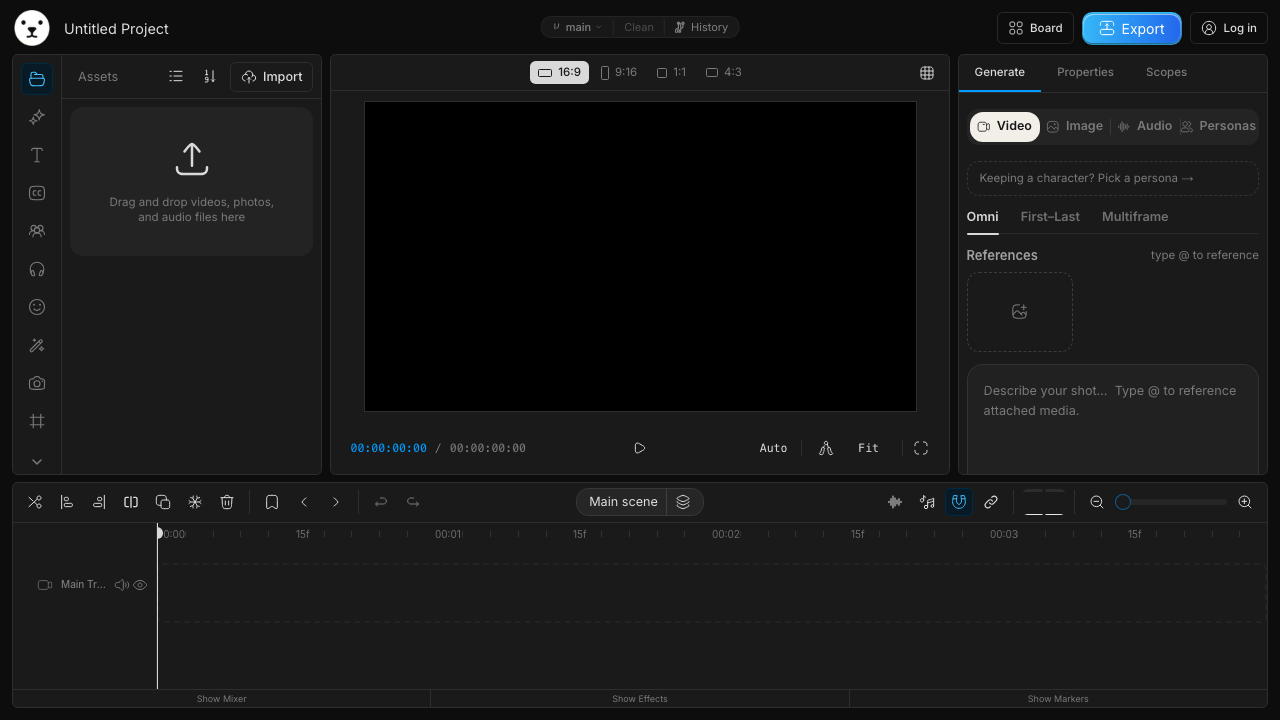
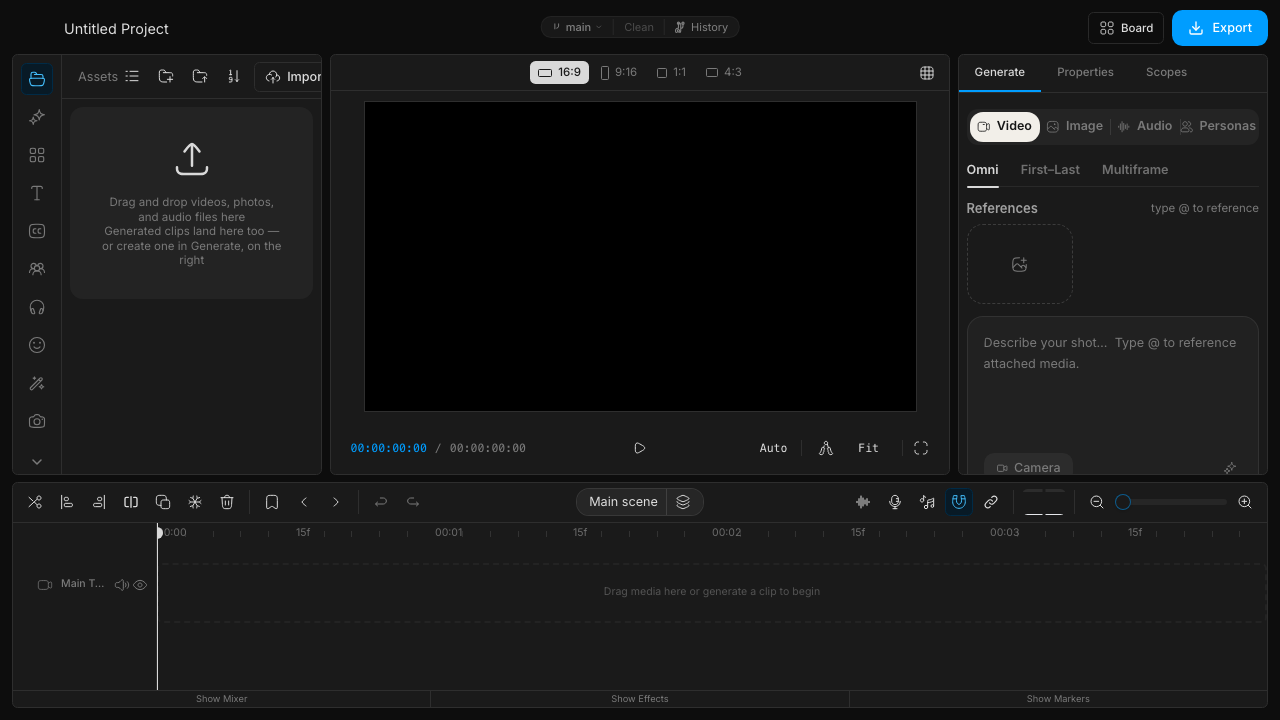
fix(generate): restore Personas tab, correct Gate A over-removal
Director-revamp Part E (0adaa428) over-removed: it took out the entire
Personas tab (PersonaManager mount + tab trigger) along with the "Keeping
a character? Pick a persona →" hint and the Style Bible chip. The user's
actual Gate A intent was narrower — only the in-form hint CTA was
unwanted; the Personas tab is a normal, always-available surface and was
never meant to go.

Re-mounts the Personas tab in generate.tsx exactly as it existed before
the removal (UserMultiple02Icon segment + PersonaManager TabsContent),
without restoring the onGoToPersonas prop (that hand-off no longer exists
on GenerationForm and stays gone). The hint button and Style Bible chip
in generation-form.tsx remain removed — that half of Gate A stands.

Updates persona-consistency.e2e.ts's Gate A pins to match: the Personas
tab is now asserted present and its PersonaManager mount is smoke-tested
(empty-state testid), while the hint and chip absence pins stay.

diff --git a/apps/web/e2e/persona-consistency.e2e.ts b/apps/web/e2e/persona-consistency.e2e.ts
@@ -4,39 +4,38 @@ import { expect, test, type Page, type Route } from "@playwright/test";
 import { WEBM_FIXTURE } from "./global-setup";
 
 /**
- * Campaign C2 machine-verification — GATE A UPDATE (2026-07-19).
+ * Campaign C2 machine-verification — GATE A CORRECTED (2026-07-20).
  *
- * Director-revamp Part E unmounted the Generate panel's Personas tab
- * (`PersonaManager` mount + tab trigger + the "Keeping a character? Pick a
- * persona →" hint) and the Style Bible chip. See
- * `apps/web/docs/plans/2026-07-19-director-revamp-design.md`, section
- * "GATE A" — the user's call was **"remove the UI but keep the product —
- * don't like it for now, will revisit."** The picker's machinery
- * (`usePersonaStore`, `persona-manager.tsx`, `seed-lock`,
- * `consistency-prompt.ts`, `reference-intake.ts`, `project-bible.ts`, and
- * Director's own `usePersonaStore.getState().setActive()` call in
- * `director-api.ts`) is untouched and still live — re-mounting the picker is
- * the whole revert, and Director remains an activation path for a persona,
- * just not through this manual panel. Driving Director chat to exercise that
- * path is out of this UI-driven spec's scope.
+ * Director-revamp Part E over-removed: it unmounted the Generate panel's
+ * entire Personas tab (`PersonaManager` mount + tab trigger) along with the
+ * "Keeping a character? Pick a persona →" hint and the Style Bible chip. The
+ * user's actual Gate A intent, clarified 2026-07-20, was narrower — **hint
+ * CTA removed; tab retained; chip stays unmounted.** Only the hint (a
+ * pushy cross-tab nudge inside the form) was unwanted; the Personas tab
+ * itself is a normal, always-available surface and was never meant to go.
+ * This spec was corrected to match: the tab is restored and its
+ * `PersonaManager` mount is pinned as present and functional, while the
+ * hint and Style Bible chip absence pins from the Part E rewrite stay.
  *
- * This spec used to drive persona creation → selection → cross-project reuse
- * entirely through `PersonaManager`'s UI. That UI surface no longer exists
- * (there is no "Personas" tab to navigate to), so that flow can't be driven
- * from the Generate panel anymore. Rewritten to pin the post-removal truth
- * instead of the pre-removal one:
+ * The picker's machinery (`usePersonaStore`, `persona-manager.tsx`,
+ * `seed-lock`, `consistency-prompt.ts`, `reference-intake.ts`,
+ * `project-bible.ts`, and Director's own
+ * `usePersonaStore.getState().setActive()` call in `director-api.ts`) was
+ * never touched by Part E and stays live — re-mounting the tab was the
+ * whole fix on the `generate.tsx` side.
  *
- *  1. the removed surfaces (Personas tab, persona hint, Style Bible chip)
- *     genuinely don't render — even when a reel-level consistency context
- *     is present — which is the Gate A regression pin;
- *  2. the manual-generate flow the old spec exercised still works
- *     end-to-end, and — because there is no in-UI path left to attach a
- *     persona — every wire body from this panel is persona/seed-free
- *     unconditionally, while the *separate*, still-live
- *     STYLE/CHARACTERS/SETTING prompt fold (`lib/studio/consistency-fold.ts`,
- *     backend-only, never gated on the picker) still applies when a
- *     reel-level consistency context exists — proving the "keep the
- *     product" half of Gate A, not just the "remove the UI" half.
+ * This spec pins:
+ *  1. the Personas tab renders and clicking it mounts `PersonaManager`
+ *     (smoke-checked via its empty-state testid) — the Gate-A-correction
+ *     regression pin;
+ *  2. the hint and Style Bible chip still don't render, even when a
+ *     reel-level consistency context is present — the surviving half of
+ *     the original Gate A removal;
+ *  3. the manual-generate flow still works end-to-end, and a generation run
+ *     through this panel *without* picking a persona stays persona/seed-free,
+ *     while the *separate*, still-live STYLE/CHARACTERS/SETTING prompt fold
+ *     (`lib/studio/consistency-fold.ts`, backend-only, never gated on the
+ *     picker) still applies when a reel-level consistency context exists.
  *
  * Screenshots land in `apps/web/docs/campaigns/assets/c2-walkthrough-0N.png`.
  */
@@ -65,8 +64,9 @@ async function fulfillProxyWithFixture(route: Route) {
 /** Baseline mocks every scenario needs: empty backend catalog, a generous
  *  credit balance, no prior generation history, the real WebM fixture for
  *  any Assets-path proxy download, and a successful board-pin
- *  acknowledgment (needed by the batch step). No persona endpoints are
- *  mocked here anymore — there's no UI path left that would call them. */
+ *  acknowledgment (needed by the batch step). Persona endpoints are mocked
+ *  separately (`mockPersonas`) only by the scenario that actually visits
+ *  the Personas tab. */
 async function mockBaseline(page: Page) {
 	await page.route("**/api/studio/backends**", async (route) => {
 		await route.fulfill({
@@ -100,6 +100,26 @@ async function mockBaseline(page: Page) {
 	});
 }
 
+/** Mocks `GET /api/studio/personas` with an empty catalog — enough for
+ *  `PersonaManager` (`usePersonaStore`'s `load()`, called on mount) to
+ *  settle into its empty state without erroring. Only the tab-navigation
+ *  smoke test needs this; full persona creation/seed-lock/cross-project
+ *  reuse coverage through this surface is out of scope here (that's the
+ *  pre-Gate-A spec's job, not this regression pin's). */
+function mockPersonas(page: Page) {
+	return page.route("**/api/studio/personas", async (route) => {
+		if (route.request().method() !== "GET") {
+			await route.continue();
+			return;
+		}
+		await route.fulfill({
+			status: 200,
+			contentType: "application/json",
+			body: JSON.stringify({ personas: [] }),
+		});
+	});
+}
+
 /** Opens a fresh project in the editor, waits for the real editor core to be
  *  live, and dismisses the first-run guide card — mirrors
  *  takes-board-routing.e2e.ts's `openGeneratePanel`. */
@@ -129,8 +149,8 @@ async function assetCount(page: Page): Promise<number> {
  *  on the E2E bridge — the same seam `resolveConsistencyContext`
  *  (`lib/studio/consistency-fold.ts`) falls back to when the session WeakMap
  *  (Director-only) is empty. No private internals touched. Used here to
- *  prove the backend fold still applies with the picker UI gone (Gate A's
- *  "keep the product" half), not to drive any removed UI. */
+ *  prove the backend fold applies independently of persona selection —
+ *  Gate A's "keep the product" half, not to drive any removed UI. */
 async function setConsistencyContext(page: Page) {
 	await page.evaluate(() => {
 		const bridge = window.__BYORN_E2E__;
@@ -163,47 +183,57 @@ async function setConsistencyContext(page: Page) {
 
 /** Remounts `GenerationForm` by cycling segments — it reads the project
  *  bible fresh on mount (no store subscription wired to it), same as before
- *  Gate A. Image has replaced Personas as "the other tab" to bounce off of. */
+ *  Gate A. Uses Image (not Personas) as "the other tab" to bounce off of so
+ *  this helper doesn't trigger a `PersonaManager` mount as a side effect. */
 async function remountGenerateSegment(page: Page) {
 	await page.getByTestId("generate-media-tab-image").click();
 	await page.getByTestId("generate-media-tab-generate").click();
 }
 
-test.describe("C2 — persona/Style-Bible UI removal (Gate A)", () => {
-	test("Generate panel exposes no persona picker or Style Bible chip, even with a reel-level consistency context set", async ({
+test.describe("C2 — persona/Style-Bible UI (Gate A, corrected)", () => {
+	test("Generate panel's Personas tab renders and mounts PersonaManager, but the persona hint and Style Bible chip stay gone even with a reel-level consistency context set", async ({
 		page,
 	}) => {
 		await mockBaseline(page);
+		await mockPersonas(page);
 		await openEditor(page, "c2-gate-a-absence");
 
-		// The Personas tab is gone entirely — not just its content, the
-		// segmented-control option itself.
-		await expect(page.getByTestId("generate-media-tab-personas")).toHaveCount(
-			0,
-		);
-		// The old "no persona yet" hint that jumped to the Personas tab is gone.
+		// Gate A correction (2026-07-20): the Personas tab itself was never
+		// meant to go — only the in-form hint CTA was. The tab renders as a
+		// normal segmented-control option.
+		const personasTab = page.getByTestId("generate-media-tab-personas");
+		await expect(personasTab).toBeVisible();
+		// The old "no persona yet" hint that used to jump here stays gone.
 		await expect(page.getByTestId("consistency-persona-hint")).toHaveCount(0);
-		// No persona can be active from this surface anymore, so the passive
-		// status chip never renders either.
+		// No persona is active yet, so the passive status chip doesn't render.
 		await expect(page.getByTestId("consistency-persona-chip")).toHaveCount(0);
 		await page.screenshot({
 			path: path.join(SCREENSHOT_DIR, "c2-walkthrough-01.png"),
 		});
 
+		// Clicking the tab mounts the real PersonaManager surface — smoke-check
+		// via its empty-state testid (no personas mocked).
+		await personasTab.click();
+		await expect(page.getByTestId("consistency-personas-empty")).toBeVisible();
+		await page.screenshot({
+			path: path.join(SCREENSHOT_DIR, "c2-walkthrough-02.png"),
+		});
+		await page.getByTestId("generate-media-tab-generate").click();
+
 		// Even with a reel-level consistency context present (the same seam
 		// Director writes through), the Style Bible chip must still not render
-		// — Gate A removed the surface, not the underlying data.
+		// — that half of Gate A's removal stands.
 		await setConsistencyContext(page);
 		await remountGenerateSegment(page);
 		await expect(page.getByTestId("consistency-style-bible-chip")).toHaveCount(
 			0,
 		);
 		await page.screenshot({
-			path: path.join(SCREENSHOT_DIR, "c2-walkthrough-02.png"),
+			path: path.join(SCREENSHOT_DIR, "c2-walkthrough-03.png"),
 		});
 	});
 
-	test("manual generation still works end-to-end with the picker gone: wire bodies are always persona/seed-free, but the backend STYLE fold still applies", async ({
+	test("manual generation still works end-to-end without picking a persona: wire bodies are persona/seed-free, but the backend STYLE fold still applies", async ({
 		page,
 	}) => {
 		test.setTimeout(90_000);
@@ -248,10 +278,10 @@ test.describe("C2 — persona/Style-Bible UI removal (Gate A)", () => {
 		expect(capturedBodies[0].personaId).toBeUndefined();
 		expect("seed" in capturedBodies[0]).toBe(false);
 		// The reel-level STYLE fold is separate, still-live machinery
-		// (consistency-fold.ts) — it isn't gated on the removed picker.
+		// (consistency-fold.ts) — it isn't gated on picking a persona.
 		expect(capturedBodies[0].prompt).toMatch(/^STYLE:[\s\S]*\n\nSHOT:/);
 		await page.screenshot({
-			path: path.join(SCREENSHOT_DIR, "c2-walkthrough-03.png"),
+			path: path.join(SCREENSHOT_DIR, "c2-walkthrough-04.png"),
 		});
 
 		// ── batch of 2 — must also never carry a persona or seed ───────────
@@ -269,7 +299,7 @@ test.describe("C2 — persona/Style-Bible UI removal (Gate A)", () => {
 			expect(body.prompt).toMatch(/^STYLE:[\s\S]*\n\nSHOT:/);
 		}
 		await page.screenshot({
-			path: path.join(SCREENSHOT_DIR, "c2-walkthrough-04.png"),
+			path: path.join(SCREENSHOT_DIR, "c2-walkthrough-05.png"),
 		});
 	});
 });

diff --git a/apps/web/src/components/editor/panels/assets/views/generate.tsx b/apps/web/src/components/editor/panels/assets/views/generate.tsx
@@ -7,12 +7,14 @@ import {
 	Video02Icon,
 	Image02Icon,
 	AudioWave01Icon,
+	UserMultiple02Icon,
 } from "@hugeicons/core-free-icons";
 import { Tabs, TabsContent } from "@/components/ui/tabs";
 import { PanelView } from "./base-view";
 import { GenerationForm } from "@/components/studio/generation-form";
 import { ImagePanel } from "@/components/studio/image-panel";
 import { AudioPanel } from "@/components/studio/audio-panel";
+import { PersonaManager } from "@/components/studio/persona-manager";
 import { SegmentedControl } from "@/components/studio/generation-bottom-bar";
 import { useStudioGeneration } from "@/hooks/use-studio-generation";
 import { useEditor } from "@/hooks/use-editor";
@@ -46,6 +48,15 @@ const MEDIA_SEGMENTS = [
 			<span className="flex items-center gap-1.5">
 				<HugeiconsIcon icon={AudioWave01Icon} className="size-[13.5px]" />
 				Audio
+			</span>
+		),
+	},
+	{
+		value: "personas",
+		label: (
+			<span className="flex items-center gap-1.5">
+				<HugeiconsIcon icon={UserMultiple02Icon} className="size-[13.5px]" />
+				Personas
 			</span>
 		),
 	},
@@ -156,6 +167,10 @@ export function GenerateView() {
 
 				<TabsContent value="audio" className="mt-0">
 					<AudioPanel />
+				</TabsContent>
+
+				<TabsContent value="personas" className="mt-0">
+					<PersonaManager />
 				</TabsContent>
 			</Tabs>
 
